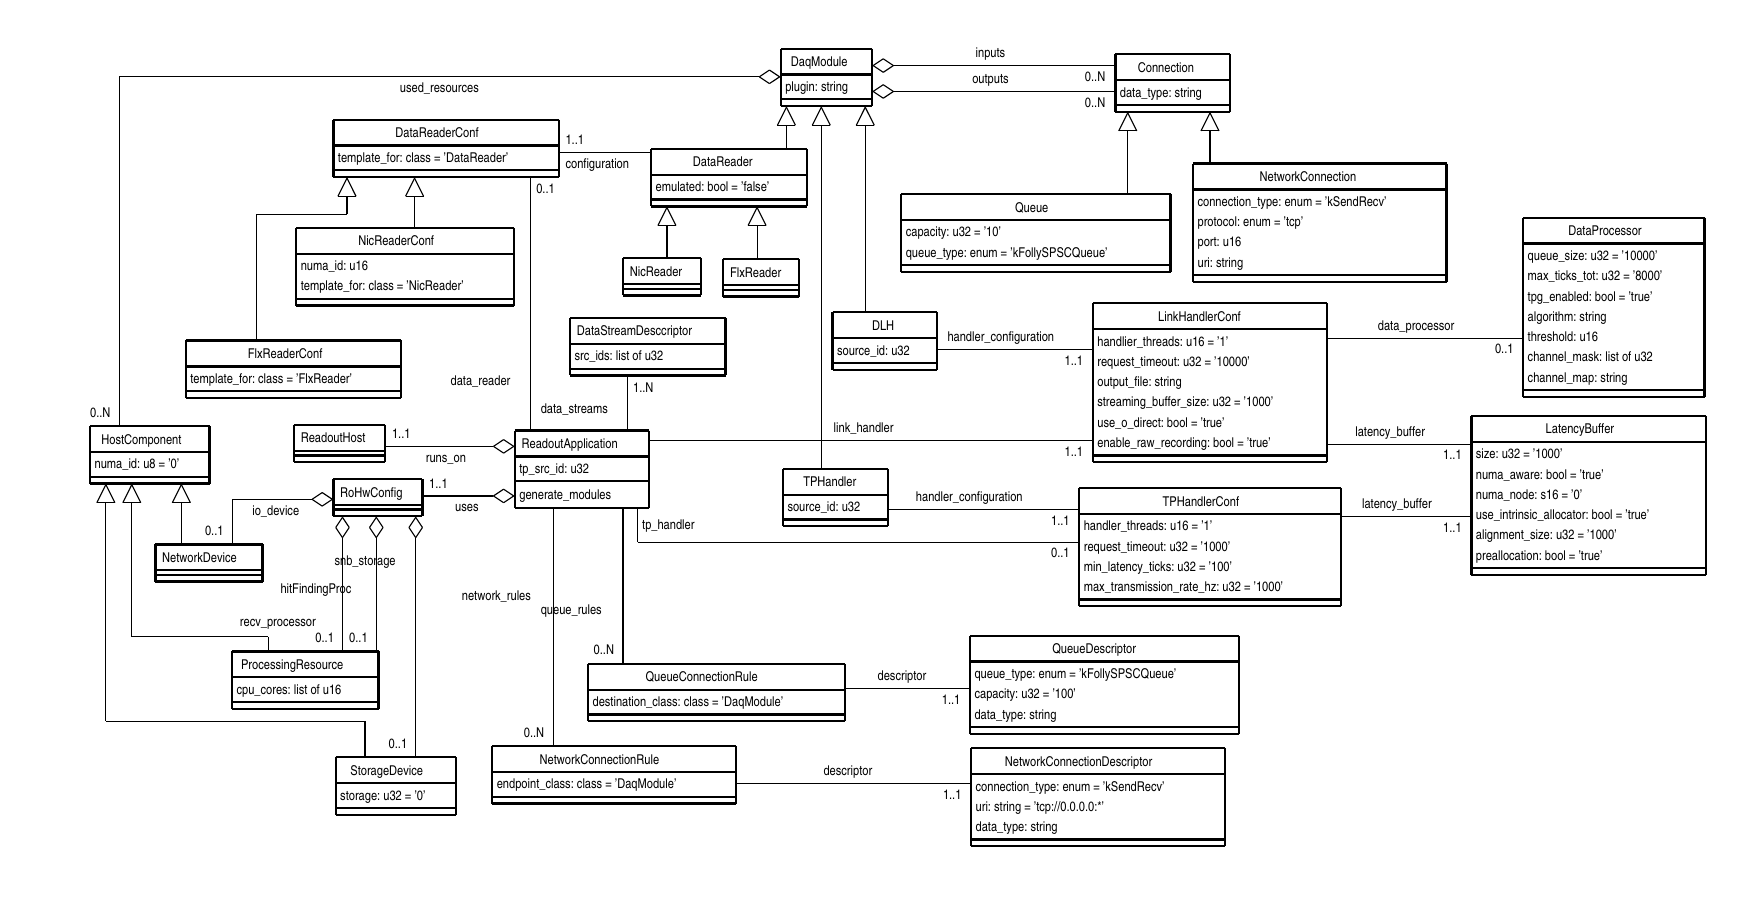
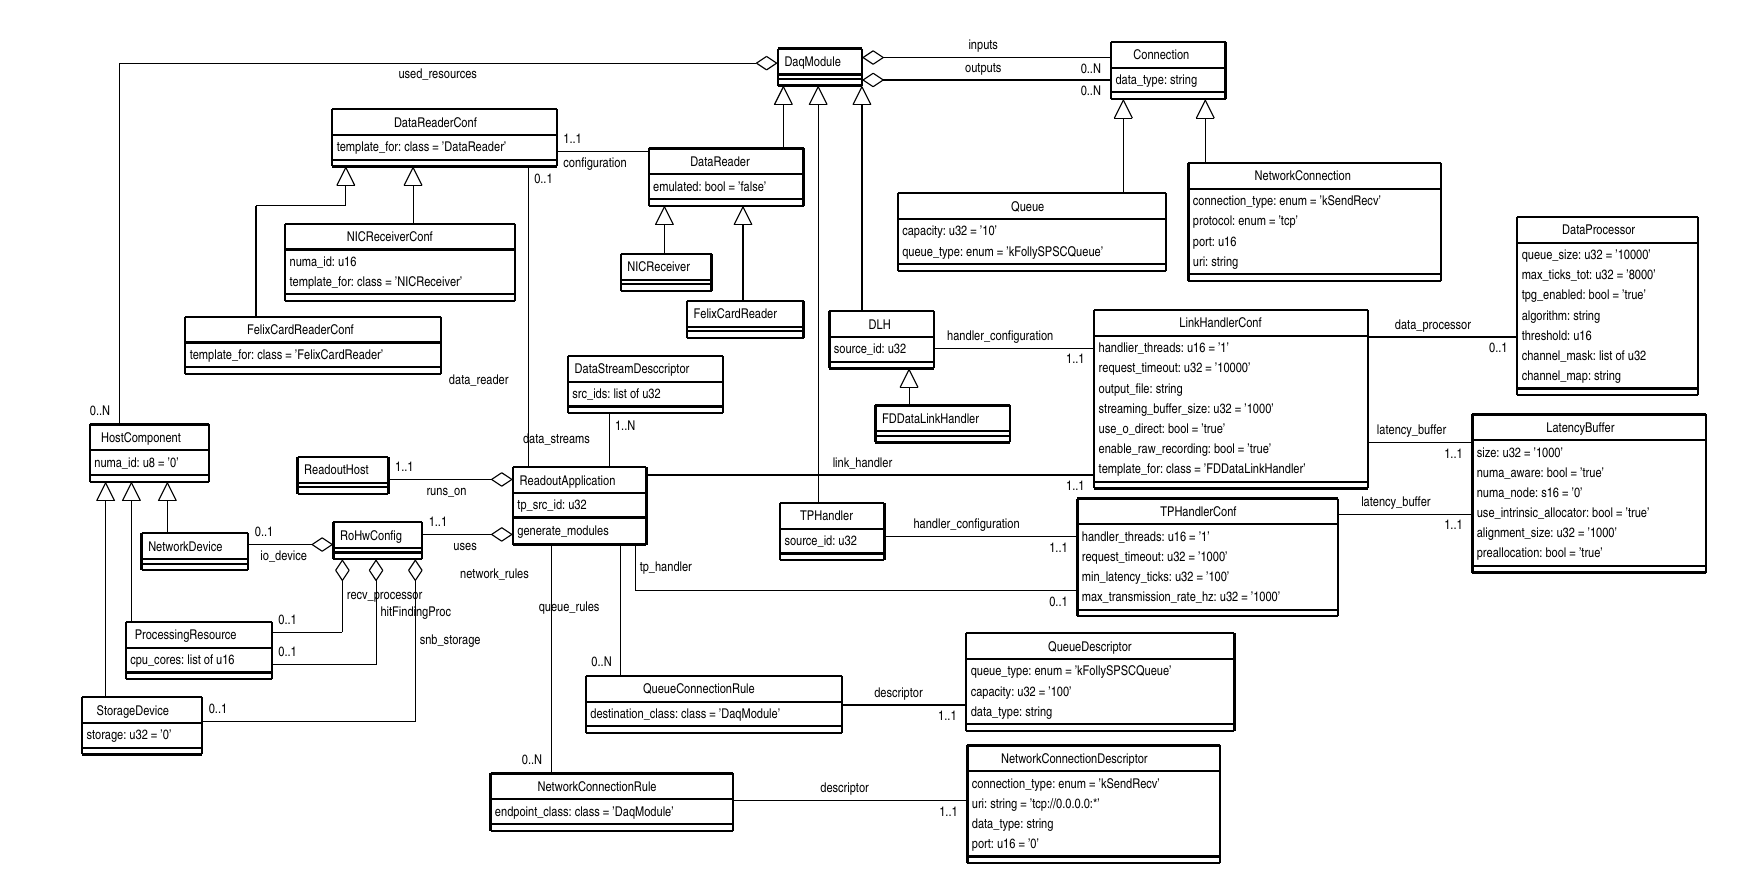
Make DLH virtual and subclass as FDDataLinkHandler with template_for attribute in config

Changed region(s): [[0.0308, 0.0303, 0.9846, 0.9708], [0.3077, 0.6674, 0.3385, 0.6978], [0.2462, 0.6978, 0.2769, 0.7281]]

diff --git a/src/generate_modules.cpp b/src/generate_modules.cpp
@@ -42,31 +42,38 @@ std::vector<const coredal::DaqModule*>
 ReadoutApplication::generate_modules(oksdbinterfaces::Configuration* confdb,
                                      const std::string& dbfile) const {
   std::vector<const coredal::DaqModule*> modules;
-  auto linkHandler = get_link_handler();
-  auto lhObj = linkHandler->config_object();
 
-  const QueueDescriptor* inputQDesc = nullptr;
-  const QueueDescriptor* outputQDesc = nullptr;
+  auto dlhConf = get_link_handler();
+  auto dlhClass = dlhConf->get_template_for();
+
+  // Process the queue rules looking for inputs to our DL/TP handler modules
+  const QueueDescriptor* dlhInputQDesc = nullptr;
+  const QueueDescriptor* tpInputQDesc = nullptr;
   for (auto rule : get_queue_rules()) {
-    if (rule->get_destination_class() == "DLH") {
-      inputQDesc = rule->get_descriptor();
+    auto destination_class = rule->get_destination_class();
+    if (destination_class == "DLH" || destination_class == dlhClass) {
+      dlhInputQDesc = rule->get_descriptor();
     }
-    else if (rule->get_destination_class() == "TPHandler") {
-      outputQDesc = rule->get_descriptor();
+    else if (destination_class == "TPHandler") {
+      tpInputQDesc = rule->get_descriptor();
     }
   }
 
+  // Process the network rules looking for the DL/TP handler data reuest inputs
   std::vector<const NetworkConnectionDescriptor*> dlhNetDesc;
   const NetworkConnectionDescriptor* tpNetDesc = nullptr;
   for (auto rule : get_network_rules()) {
-    if (rule->get_endpoint_class() == "DLH") {
+    auto endpoint_class = rule->get_endpoint_class();
+    if (endpoint_class == "DLH" || endpoint_class == dlhClass) {
       dlhNetDesc.push_back(rule->get_descriptor());
     }
-    else if (rule->get_endpoint_class() == "TPHandler") {
+    else if (endpoint_class == "TPHandler") {
       tpNetDesc = rule->get_descriptor();
     }
   }
 
+  // Now create the TP Handler and its associated queue and network
+  // connections if we have a TP handler config
   oksdbinterfaces::ConfigObject tpQueueObj;
   oksdbinterfaces::ConfigObject tpNetObj;
   auto tpHandlerConf = get_tp_handler();
@@ -74,7 +81,7 @@ ReadoutApplication::generate_modules(oksdbinterfaces::Configuration* confdb,
     if (tpNetDesc == nullptr) {
       throw (BadConf(ERS_HERE, "No tpHandler network descriptor given"));
     }
-    if (outputQDesc == nullptr) {
+    if (tpInputQDesc == nullptr) {
       throw (BadConf(ERS_HERE, "No tpHandler input queue descriptor given"));
     }
     auto tpsrc = get_tp_src_id();
@@ -83,15 +90,16 @@ ReadoutApplication::generate_modules(oksdbinterfaces::Configuration* confdb,
     }
     std::string tpQueueUid("inputToTPH-"+std::to_string(tpsrc));
     confdb->create(dbfile, "Queue", tpQueueUid, tpQueueObj);
-    tpQueueObj.set_by_val<std::string>("data_type", outputQDesc->get_data_type());
-    tpQueueObj.set_by_val<std::string>("queue_type", outputQDesc->get_queue_type());
-    tpQueueObj.set_by_val<uint32_t>("capacity", outputQDesc->get_capacity());
+    tpQueueObj.set_by_val<std::string>("data_type", tpInputQDesc->get_data_type());
+    tpQueueObj.set_by_val<std::string>("queue_type", tpInputQDesc->get_queue_type());
+    tpQueueObj.set_by_val<uint32_t>("capacity", tpInputQDesc->get_capacity());
 
     std::string tpNetUid("ReqToTPH-"+std::to_string(tpsrc));
     confdb->create(dbfile, "NetworkConnection", tpNetUid, tpNetObj);
     tpNetObj.set_by_val<std::string>("data_type", tpNetDesc->get_data_type());
     tpNetObj.set_by_val<std::string>("connection_type", tpNetDesc->get_connection_type());
     tpNetObj.set_by_val<std::string>("uri", tpNetDesc->get_uri());
+    tpNetObj.set_by_val<uint16_t>("port", tpNetDesc->get_port());
     
     auto tphConfObj = tpHandlerConf->config_object();
     oksdbinterfaces::ConfigObject tpObj;
@@ -101,33 +109,36 @@ ReadoutApplication::generate_modules(oksdbinterfaces::Configuration* confdb,
     tpObj.set_obj("handler_configuration", &tphConfObj);
     tpObj.set_objs("inputs", {&tpQueueObj, &tpNetObj});
 
-    auto tphDal = const_cast<TPHandler*>(confdb->get<TPHandler>(tpUid));
-    modules.push_back(tphDal);
+    // Add to our list of modules to return
+    modules.push_back(confdb->get<TPHandler>(tpUid));
   }
 
+  // Now create the DataReader objects, one per group of data streams
   auto rdrConf = get_data_reader();
   if (rdrConf == 0) {
     throw (BadConf(ERS_HERE, "No DataReader configuration given"));
-  } 
-  auto readerConfObj = rdrConf->config_object();
+  }
   int rnum = 0;
+  int port_offset = 0;
   for (auto stream : get_data_streams()) {
+    // Create a Data Link Handler for each stream of this DataReader
     std::vector<const coredal::Connection*> outputQueues;
     for (auto id : stream->get_src_ids()) {
       std::string uid("DLH-"+std::to_string(id));
       oksdbinterfaces::ConfigObject dlhObj;
-      confdb->create(dbfile, "DLH", uid, dlhObj);
+      TLOG_DEBUG(7) <<  "creating OKS configuration object for Data Link Handler class " << dlhClass;
+      confdb->create(dbfile, dlhClass, uid, dlhObj);
       dlhObj.set_by_val<uint32_t>("source_id", id);
-      dlhObj.set_obj("handler_configuration", &lhObj);
+      dlhObj.set_obj("handler_configuration", &dlhConf->config_object());
       if (tpHandlerConf) {
         dlhObj.set_objs("outputs", {&tpQueueObj});
       }
       std::string queueUid("inputToDLH-"+std::to_string(id));
       oksdbinterfaces::ConfigObject queueObj;
       confdb->create(dbfile, "Queue", queueUid, queueObj);
-      queueObj.set_by_val<std::string>("data_type", inputQDesc->get_data_type());
-      queueObj.set_by_val<std::string>("queue_type", inputQDesc->get_queue_type());
-      queueObj.set_by_val<uint32_t>("capacity", inputQDesc->get_capacity());
+      queueObj.set_by_val<std::string>("data_type", dlhInputQDesc->get_data_type());
+      queueObj.set_by_val<std::string>("queue_type", dlhInputQDesc->get_queue_type());
+      queueObj.set_by_val<uint32_t>("capacity", dlhInputQDesc->get_capacity());
 
       std::vector<const oksdbinterfaces::ConfigObject*> netObjs;
       for (auto desc : dlhNetDesc) {
@@ -137,15 +148,18 @@ ReadoutApplication::generate_modules(oksdbinterfaces::Configuration* confdb,
         netObj.set_by_val<std::string>("data_type", desc->get_data_type());
         netObj.set_by_val<std::string>("connection_type", desc->get_connection_type());
         netObj.set_by_val<std::string>("uri", desc->get_uri());
+        uint16_t port = desc->get_port();
+        port = port ? port+port_offset : port;
+        netObj.set_by_val<uint16_t>("port", port);
         netObjs.push_back(&(confdb->get<coredal::NetworkConnection>(netUid)->config_object()));
       }
+      port_offset++;
       dlhObj.set_objs("inputs", netObjs);
 
       // Add the input queue dal pointer to the outputs of the DataReader
       outputQueues.push_back(confdb->get<coredal::Connection>(queueUid));
 
-      auto dlhDal = const_cast<DLH*>(confdb->get<DLH>(uid));
-      modules.push_back(dlhDal);
+      modules.push_back(confdb->get<DLH>(uid));
     }
 
     std::string readerUid("datareader-"+UID()+"-"+std::to_string(rnum++));
@@ -159,10 +173,9 @@ ReadoutApplication::generate_modules(oksdbinterfaces::Configuration* confdb,
       qObjs.push_back(&q->config_object());
     }
     readerObj.set_objs("outputs", qObjs);
-    readerObj.set_obj("configuration", &readerConfObj);
-    auto reader = const_cast<DataReader*>(
-      confdb->get<DataReader>(readerUid));
-    modules.push_back(reader);
+    readerObj.set_obj("configuration", &rdrConf->config_object());
+
+    modules.push_back(confdb->get<DataReader>(readerUid));
   }
   return modules;
 }
